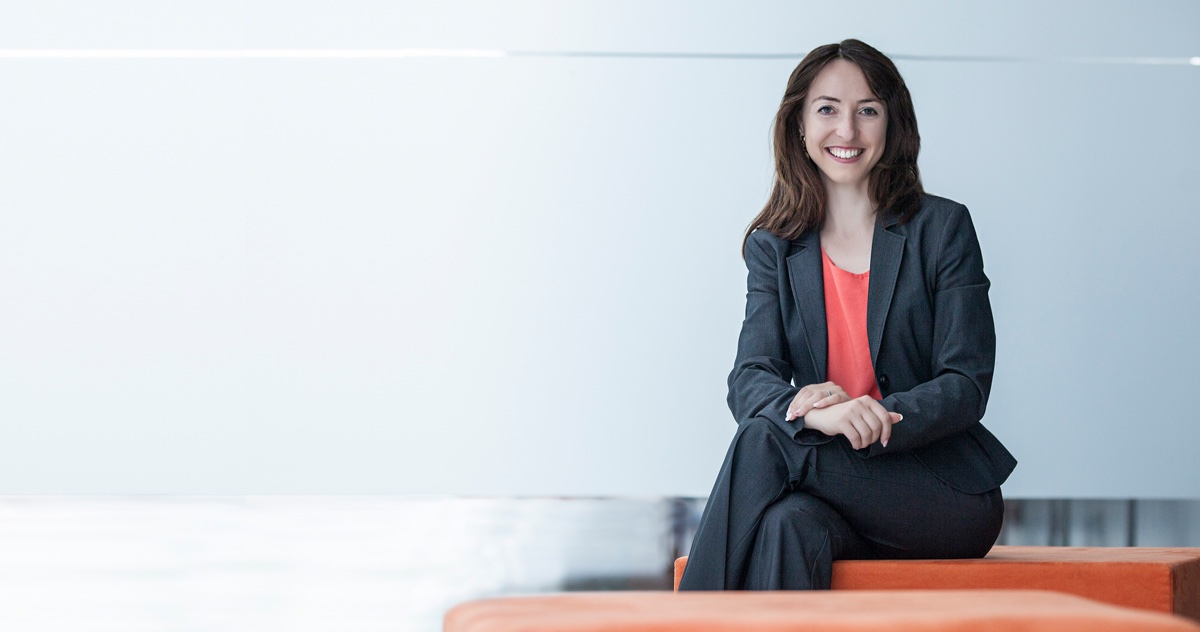
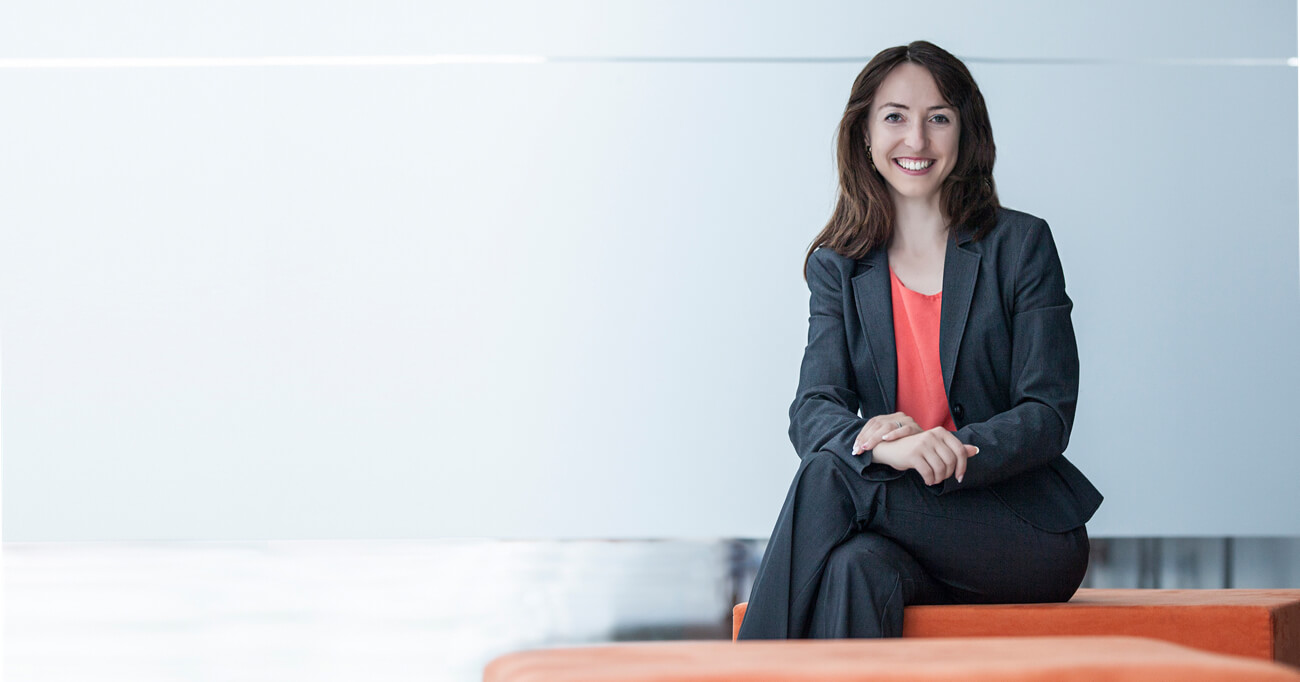
more image magic

diff --git a/static/css/main.css b/static/css/main.css
@@ -435,6 +435,12 @@ nav.menu {
     line-height: 1.4rem;
 }
 
+@media all and (max-width: 768px) {
+    .aboutme-text {
+        max-width: 61%;
+    }
+}
+
 .aboutme-text-sm {
     margin-top: 20px;
     font-size: 1.05rem;

diff --git a/pages/home.php b/pages/home.php
@@ -119,9 +119,9 @@
 </div>
 
 <div class="row aboutme-box"> <!-- Big screen: text within image -->
-    <div class="col-12 hero-image-container">
+    <div class="col-10 offset-1 col-sm-12 offset-sm-0 hero-image-container">
         <picture>
-            <source srcset="/static/images/cristina_mueller_sitzend-xs.jpg" media="(max-width: 638px)">
+            <source srcset="/static/images/cristina_mueller_sitzend-xs.jpg" media="(max-width: 576px)">
             <source srcset="/static/images/cristina_mueller_sitzend-sm.jpg" media="(max-width: 1000px)">
             <img
                 src="/static/images/cristina_mueller_sitzend.jpg"
